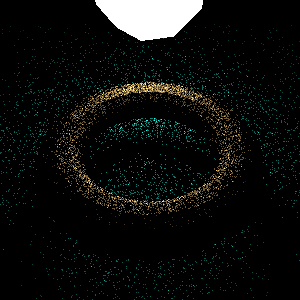
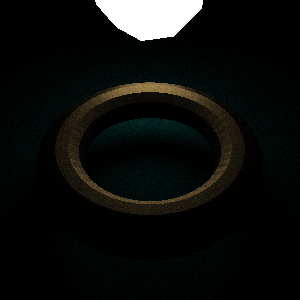
Maybe a correct microfacet transparent material

diff --git a/aika_core/src/path_tracing/simple_path_tracing.rs b/aika_core/src/path_tracing/simple_path_tracing.rs
@@ -12,7 +12,7 @@ use crate::material::{BSDF, Material};
 use crate::path_tracing::{ShadingContext, TracingService};
 use anyhow::Result;
 use indicatif::ProgressBar;
-use aika_math::utils::{is_same_hemisphere, visualize_unit_vector};
+use aika_math::utils::{get_vector3_one, is_same_hemisphere, visualize_unit_vector};
 use crate::f;
 use crate::path_tracing::shading_context::RayObjectStatus;
 
@@ -121,6 +121,9 @@ impl<F> SimplePathTracing<F> where F: BaseFloat + 'static {
                                 if result.wi.dot(shading_context.normal) > F::zero() {
                                     let light_dir_ts = shading_context.convert_vector_to_tangent_space(result.wi);
 
+                                    // if pixel.0 == 149 && pixel.1 == 155 {
+                                    //     println!("123123");
+                                    // }
                                     let f = bsdf.evaluate(light_dir_ts, wo);
                                     if let Some(f) = f {
                                         let shadow_ray = Ray::new(hit_point + interpolated_normal * f!(1e-3), result.wi);
@@ -128,18 +131,26 @@ impl<F> SimplePathTracing<F> where F: BaseFloat + 'static {
                                         let ray_transmission = tracing_service.get_ray_transmission(&shadow_ray, F::zero(), result.distance);
                                         // let ray_transmission = F::one();
                                         // return Ok(visualize_unit_vector(result.wi));
-                                        if ray_transmission == F::zero() {
-                                            return Ok(Vector3::zero());
-                                        } else {
-                                            return Ok(Vector3::new(F::one(), F::one(), F::one()));
-                                        }
+                                        // if ray_transmission == F::zero() {
+                                        //     return Ok(Vector3::zero());
+                                        // } else {
+                                        //     return Ok(Vector3::new(F::one(), F::one(), F::one()));
+                                        // }
                                         let contribution = f.mul_element_wise(result.radiance).mul_element_wise(result.weight) * light_dir_ts.z.abs();
                                         radiance += throughput.mul_element_wise(contribution) * ray_transmission;
+                                        if ray_iter == 1 {
+                                            return Ok(contribution * ray_transmission);
+                                        }
+
                                     } else {
-                                        return Ok(Vector3::new(F::one(), F::zero(), F::one()));
+                                        // return Ok(Vector3::zero());
+                                        // return Ok(Vector3::new(F::one(), F::zero(), F::one()));
                                     }
+                                } else {
+                                    // return Ok(Vector3::new(F::one(), F::zero(), F::zero()));
                                 }
                             }
+                            // return Ok(Vector3::new(F::one(), F::zero(), F::zero()));
                         }
 
                         let sample_result = bsdf.sample_ray(tracing_service, wo);
@@ -225,7 +236,7 @@ impl<F> SimplePathTracing<F> where F: BaseFloat + 'static {
         Ok(radiance)
     }
 
-    pub fn trace(scene: &Scene<F>, width: usize, height: usize, camera: &PerspectiveCamera<F>, camera_transform: &Transform<F>) -> RgbImage {
+    pub fn trace(scene: &Scene<F>, depth: usize, width: usize, height: usize, camera: &PerspectiveCamera<F>, camera_transform: &Transform<F>) -> RgbImage {
         let mut result = RgbImage::new(width as u32, height as u32);
         let mut tracing_service = TracingService::new(scene);
 
@@ -233,9 +244,9 @@ impl<F> SimplePathTracing<F> where F: BaseFloat + 'static {
 
         for (ray, (i, j)) in camera.iter_ray(&camera_transform, width, height) {
             let mut sum = Vector3::zero();
-            let spp = 3;
+            let spp = 1024;
             for k in 0..spp {
-                let color = SimplePathTracing::shade_one_ray(&mut tracing_service, &ray, 2, (i, j)).unwrap();
+                let color = SimplePathTracing::shade_one_ray(&mut tracing_service, &ray, depth, (i, j)).unwrap();
                 // println!("{:?}", color.div_element_wise(pdf));
                 sum += color;
             }

diff --git a/aika_application/src/main.rs b/aika_application/src/main.rs
@@ -89,7 +89,7 @@ fn get_sphere<F>() -> GameObject<F> where F: BaseFloat + 'static {
 }
 
 fn get_directional_light<F>() -> GameObject<F> where F: BaseFloat + 'static {
-    let light: DirectionalLightComponent<F> = DirectionalLightComponent::new(Vector3::new(f!(0.5), f!(0.6), f!(0.7)) * f!(1.0));
+    let light: DirectionalLightComponent<F> = DirectionalLightComponent::new(Vector3::new(f!(0.5), f!(0.6), f!(0.7)) * f!(3.0));
     let mut go = GameObject::new_empty(String::from("light"));
     go.add_component_owned(light);
 
@@ -104,7 +104,7 @@ fn get_directional_light<F>() -> GameObject<F> where F: BaseFloat + 'static {
 }
 
 fn get_spherical_light<F>() -> GameObject<F> where F: BaseFloat + 'static {
-    let light: SphericalLightComponent<F> = SphericalLightComponent::new(f!(0.7), new_vector3(2, 2, 2.4) * f!(0.5));
+    let light: SphericalLightComponent<F> = SphericalLightComponent::new(f!(0.7), new_vector3(2, 2, 2.4) * f!(2));
     let mut go = GameObject::new_empty(String::from("spherical light"));
     go.add_component_owned(light);
 
@@ -130,7 +130,7 @@ fn get_torus<F: BaseFloat + 'static>() -> GameObject<F> {
     {
         let transform = Transform::new(
             Vector3::new(f!(0.0), f!(0.0), f!(-2)),
-            f!(1),
+            f!(0.5),
             Euler::new(Deg(f!(45)), Deg(f!(0.0)), Deg(f!(0.0))).into()
         );
         game_object.add_component_owned(transform);
@@ -138,8 +138,8 @@ fn get_torus<F: BaseFloat + 'static>() -> GameObject<F> {
 
     // mesh
     {
-        let mesh: DynMesh<F> = WavefrontMeshLoader::torus().unwrap().to_dyn_mesh();
-        // let mesh: DynMesh<F> = WavefrontMeshLoader::sphere().unwrap().to_dyn_mesh();
+        // let mesh: DynMesh<F> = WavefrontMeshLoader::torus().unwrap().to_dyn_mesh();
+        let mesh: DynMesh<F> = WavefrontMeshLoader::sphere().unwrap().to_dyn_mesh();
         let mesh_filter = MeshFilter::new(mesh);
         game_object.add_component_owned(mesh_filter);
     }
@@ -154,8 +154,8 @@ fn get_torus<F: BaseFloat + 'static>() -> GameObject<F> {
         // let material = Material { material_impl: Box::new(DielectricMaterial::new(Vector3::new(f!(2.0), f!(2.0), f!(2.0)))) };
         // let material = Material { material_impl: Box::new(RoughDielectricBSDFMaterial::new_single_ior(f!(0.1), f!(2))) };
         // let material = Material { material_impl: Box::new(RoughDielectricBSDFMaterial::new(f!(0.01), Vector3::new(f!(1.5), f!(1.5), f!(1.5)))) };
-        let material = Material { material_impl: Box::new(RoughConductorBRDFMaterial::new(f!(0.5), MaterialConstants::gold_ior())) };
-        // let material = Material { material_impl: Box::new(MetallicRoughnessBRDFMaterial::new(f!(0.1), f!(1), new_vector3(1, 0.782, 0.344))) };
+        let material = Material { material_impl: Box::new(RoughConductorBRDFMaterial::new(f!(0.1), MaterialConstants::gold_ior())) };
+        // let material = Material { material_impl: Box::new(MetallicRoughnessBRDFMaterial::new(f!(0.5), f!(1), new_vector3(1, 0.782, 0.344))) };
         game_object.add_component_owned(material);
     }
 
@@ -183,7 +183,7 @@ fn main_with_type<F>() -> Result<()> where F: BaseFloat + 'static {
     );
 
     let size = 300;
-    let image = SimplePathTracing::trace(&scene, size, size, &camera, &camera_transform);
+    let image = SimplePathTracing::trace(&scene, 5, size, size, &camera, &camera_transform);
     // let image = ShadeNormal::shade_normal(&scene, size, size, &camera, &camera_transform);
     image.save("trace.png")?;
 

diff --git a/aika_core/src/material/rough_dielectric_bsdf.rs b/aika_core/src/material/rough_dielectric_bsdf.rs
@@ -123,6 +123,7 @@ impl<F> BSDF<F> for RoughDielectricBSDF<F> where F: BaseFloat + 'static {
 
         if reflect {
             if fresnel.is_none() {
+                println!("fresnel is none but is reflect");
                 return None;
             }
             let fresnel = fresnel.unwrap();
@@ -135,21 +136,28 @@ impl<F> BSDF<F> for RoughDielectricBSDF<F> where F: BaseFloat + 'static {
             // Some(Vector3::zero())
         } else {
             if wm.z <= F::zero() {
+                // println!("wm.z < 0");
                 return None;
             }
             assert!(wm.z > F::zero());
             assert!(fresnel.is_some());
             let fresnel = fresnel.unwrap();
             let lar = smith_g2_lagarde(wi, wo, self.roughness);
-            let etap = if wi.z > F::zero() { F::one() / eta } else { eta };
+            // let etap = if wi.z > F::zero() { F::one() / eta } else { eta };
+            let etap = if wi.z > F::zero() { eta } else { F::one() / eta };
             let wi_dot_wm = wi.dot(wm);
             let wo_dot_wm = wo.dot(wm);
-            let denom = sqr(wi_dot_wm * etap + wo_dot_wm);
+            let vertical_component_sqr = sqr(wi_dot_wm + etap * wo_dot_wm);
             let transmit = F::one() - fresnel;
             let ndf = self.ndf.evaluate(wm);
-            let btdf = transmit * f!(4) * lar * ndf * wi_dot_wm.abs() * wo_dot_wm.abs() / denom;
-            // Some(Vector3::new(btdf, btdf, btdf))
-            Some(Vector3::zero())
+            let mut btdf = transmit * f!(4) * lar * ndf * wi_dot_wm.abs() * wo_dot_wm.abs() * etap * etap / vertical_component_sqr;
+            // if wi.z > F::zero() {
+            //     btdf = btdf * (eta * eta);
+            // } else {
+            //     btdf = btdf / (eta * eta);
+            // }
+            Some(Vector3::new(btdf, btdf, btdf))
+            // Some(Vector3::zero())
         }
     }
 

diff --git a/aika_core/src/material/diffuse_brdf.rs b/aika_core/src/material/diffuse_brdf.rs
@@ -3,6 +3,7 @@ use cgmath::{BaseFloat, InnerSpace, Vector3};
 use aika_math::Ray;
 use crate::material::{BSDF, BSDFSampleResult, MaterialTrait, VolumeTrait};
 use anyhow::Result;
+use aika_math::utils::{get_2pi, sample_uniform_hemisphere};
 use crate::f;
 use crate::path_tracing::{ShadingContext, TracingService};
 
@@ -27,25 +28,18 @@ impl<F> BSDF<F> for DiffuseBRDF<F> where F: BaseFloat + 'static {
 
     fn sample_ray(&self, service: &mut TracingService<F>, current_dir: Vector3<F>) -> Option<BSDFSampleResult<F>> {
         if current_dir.z < F::zero() {
+            assert!(false);
             println!("current dir: {:?}", current_dir);
             return None;
         }
         // assert!(current_dir.z >= F::zero());
-        let a = service.random_0_1();
-        let b = service.random_0_1();
 
-        let pi2 = F::from(PI * 2.0).unwrap();
-        let phi = pi2 * a;
-        let cos_theta = F::one() - b;
-        let sin_theta = (F::one() - cos_theta).sqrt();
-        let (sin_phi, cos_phi) = phi.sin_cos();
-
-        let dir = Vector3::new(sin_theta * cos_phi, sin_theta * sin_phi, cos_theta).normalize();
-        // assert!(dir.z >= F::zero());
-        if dir.z < F::zero() {
+        let dir = sample_uniform_hemisphere(service.random_0_1(), service.random_0_1());
+        assert!(dir.z > F::zero());
+        if dir.z <= F::zero() {
             println!("sampled diffuse brdf dir is under normal {:?}", dir);
         }
-        let pdf = F::one() / pi2;
+        let pdf = F::one() / get_2pi();
         let weight = self.albedo * F::from(2).unwrap() * dir.z;
 
         let result = BSDFSampleResult {

diff --git a/aika_math/src/utils/sample.rs b/aika_math/src/utils/sample.rs
@@ -1,5 +1,6 @@
 use std::f64::consts::PI;
 use cgmath::{BaseFloat, InnerSpace, Vector2, Vector3};
+use crate::utils::safe_sqrt;
 
 pub fn sample_uniform_disk_polar<F>(u1: F, u2: F) -> Vector2<F> where F: BaseFloat {
     let pi = F::from(PI).unwrap();
@@ -12,9 +13,14 @@ pub fn sample_uniform_hemisphere<F>(r1: F, r2: F) -> Vector3<F> where F: BaseFlo
     let pi2 = F::from(PI * 2.0).unwrap();
     let phi = pi2 * r1;
     let cos_theta = F::one() - r2;
-    let sin_theta = (F::one() - cos_theta).sqrt();
+    let sin_theta = safe_sqrt(F::one() - cos_theta * cos_theta);
     let (sin_phi, cos_phi) = phi.sin_cos();
 
-    let dir = Vector3::new(sin_theta * cos_phi, sin_theta * sin_phi, cos_theta);
+    let mut dir = Vector3::new(sin_theta * cos_phi, sin_theta * sin_phi, cos_theta);
+    if dir.z == F::zero() {
+        dir.z = F::from(1e-6).unwrap();
+    }
     dir
 }
+
+// pub fn sample_uniform_sphere<F: BaseFloat>(r1)

diff --git a/aika_math/src/utils/math.rs b/aika_math/src/utils/math.rs
@@ -213,6 +213,7 @@ pub fn get_generalized_half<F: BaseFloat>(wi: Vector3<F>, wo: Vector3<F>, eta: F
     if wi.z == F::zero() || wo.z == F::zero() || length_square_vector3(wm) == F::zero() {
         return None;
     }
+    let wm = wm.normalize();
 
     if reflect {
         Some(wm)
@@ -278,4 +279,8 @@ pub fn min_vector3<F: BaseFloat>(a: Vector3<F>, b: Vector3<F>) -> Vector3<F> {
         a[1].min(b[1]),
         a[2].min(b[2])
     )
+}
+
+pub fn get_vector3_one<F: BaseFloat>() -> Vector3<F> {
+    Vector3::new(F::one(), F::one(), F::one())
 }
